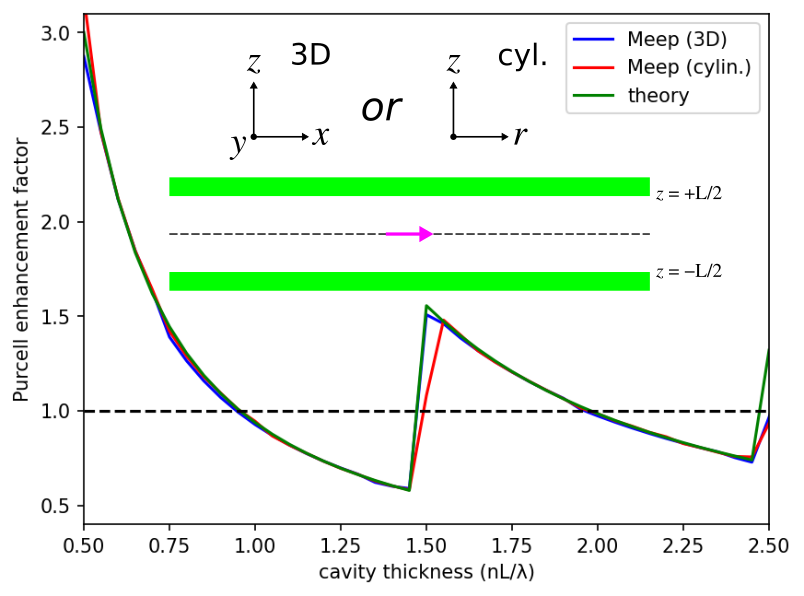
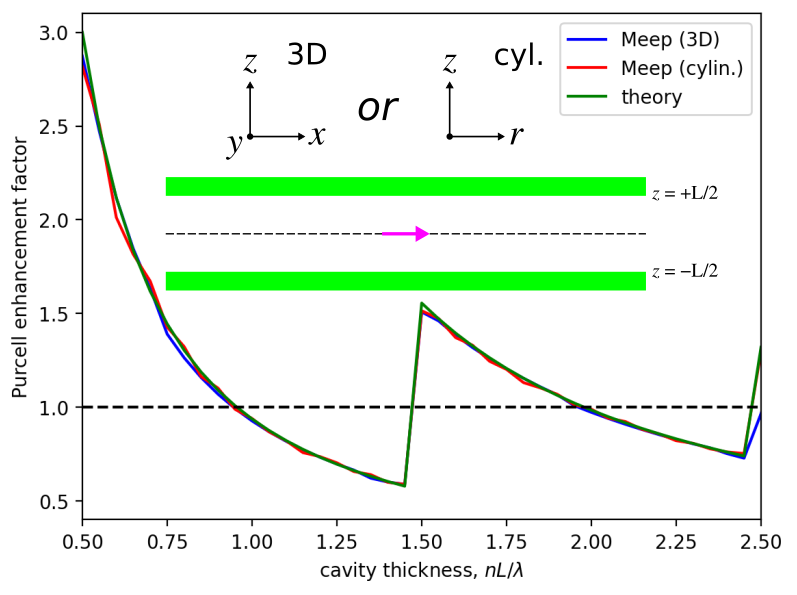
mention impact of grid resolution at Van Hove singularities and update figure

diff --git a/python/examples/planar_cavity_ldos.py b/python/examples/planar_cavity_ldos.py
@@ -1,8 +1,8 @@
-# Computes the Purcell enhancement factor of a parallel dipole in a 3D
-# homogeneous dielectric cavity with lossless metallic walls on two sides.
-# The result is computed in cylindrical and 3D coordinates and compared
-# with the analytic theory from:
+# Computes the Purcell enhancement factor of a parallel dipole in a planar
+# dielectric cavity with lossless metallic walls. The result is computed in
+# cylindrical and 3D coordinates and compared with the analytic theory from:
 # I. Abram et al., IEEE J. Quantum Electronics, Vol. 34, pp. 71-76 (1998).
+
 
 import meep as mp
 import numpy as np
@@ -11,7 +11,7 @@ matplotlib.use('agg')
 import matplotlib.pyplot as plt
 
 
-resolution = 50  # pixels/μm
+resolution = 70  # pixels/μm
 dpml = 0.5       # thickness of PML
 L = 6.0          # length of non-PML region
 n = 2.4          # refractive index of surrounding medium
@@ -29,11 +29,7 @@ def bulk_ldos_cyl():
 
     sources = [mp.Source(src=mp.GaussianSource(fcen,fwidth=0.2*fcen),
                          component=mp.Er,
-                         center=mp.Vector3()),
-               mp.Source(src=mp.GaussianSource(fcen,fwidth=0.2*fcen),
-                         component=mp.Er,
-                         center=mp.Vector3(),
-                         amplitude=-1j)]
+                         center=mp.Vector3())]
 
     sim = mp.Simulation(resolution=resolution,
                         cell_size=cell_size,
@@ -60,11 +56,7 @@ def cavity_ldos_cyl(sz):
 
     sources = [mp.Source(src=mp.GaussianSource(fcen,fwidth=0.2*fcen),
                          component=mp.Er,
-                         center=mp.Vector3()),
-               mp.Source(src=mp.GaussianSource(fcen,fwidth=0.2*fcen),
-                         component=mp.Er,
-                         center=mp.Vector3(),
-                         amplitude=-1j)]
+                         center=mp.Vector3())]
 
     sim = mp.Simulation(resolution=resolution,
                         cell_size=cell_size,
@@ -178,10 +170,10 @@ if __name__ == '__main__':
         plt.plot(cavity_thickness,pe_meep_cyl,'r-',label='Meep (cylin.)')
         plt.plot(cavity_thickness,pe_theory,'g-',label='theory')
         plt.plot(cavity_thickness,np.ones(len(cavity_thickness)),'k--')
-        plt.xlabel('cavity thickness')
-        plt.ylabel('Purcell enhancement factor (relative to bulk)')
-        plt.title("horizontal point dipole at λ=1.0 μm in a cavity with"
-                  "\n n=2.4 and lossless metallic walls on two sides")
+        plt.xlabel('cavity thickness, $nL/\lambda$')
+        plt.ylabel('Purcell enhancement factor')
+        plt.title("planar point dipole at λ=1.0 μm in a planar cavity\n"
+                  "with n=2.4 and lossless metallic walls")
         plt.axis([0.5,2.5,0.4,3.1])
         plt.legend()
         plt.savefig('cavity_purcell_factor_vs_thickness.png',

diff --git a/python/tests/test_ldos.py b/python/tests/test_ldos.py
@@ -2,11 +2,11 @@ import unittest
 import numpy as np
 import meep as mp
 
-# Computes the Purcell enhancement factor of a parallel dipole in a 3D
-# homogeneous dielectric cavity with lossless metallic walls on two sides.
-# The result is computed in cylindrical and 3D coordinates and validated
-# using analytic theory from:
+# Computes the Purcell enhancement factor of a parallel dipole in a planar
+# dielectric cavity with lossless metallic walls. The result is computed in
+# cylindrical and 3D coordinates and validated using analytic theory from:
 # I. Abram et al., IEEE J. Quantum Electronics, Vol. 34, pp. 71-76 (1998).
+
 
 class TestLDOS(unittest.TestCase):
 
@@ -30,11 +30,7 @@ class TestLDOS(unittest.TestCase):
 
         sources = [mp.Source(src=mp.GaussianSource(self.fcen,fwidth=0.2*self.fcen),
                              component=mp.Er,
-                             center=mp.Vector3()),
-                   mp.Source(src=mp.GaussianSource(self.fcen,fwidth=0.2*self.fcen),
-                             component=mp.Er,
-                             center=mp.Vector3(),
-                             amplitude=-1j)]
+                             center=mp.Vector3())]
 
         sim = mp.Simulation(resolution=self.resolution,
                             cell_size=cell_size,
@@ -61,11 +57,7 @@ class TestLDOS(unittest.TestCase):
 
         sources = [mp.Source(src=mp.GaussianSource(self.fcen,fwidth=0.2*self.fcen),
                              component=mp.Er,
-                             center=mp.Vector3()),
-                   mp.Source(src=mp.GaussianSource(self.fcen,fwidth=0.2*self.fcen),
-                             component=mp.Er,
-                             center=mp.Vector3(),
-                             amplitude=-1j)]
+                             center=mp.Vector3())]
 
         sim = mp.Simulation(resolution=self.resolution,
                             cell_size=cell_size,
@@ -155,6 +147,7 @@ class TestLDOS(unittest.TestCase):
     def test_ldos_cyl(self):
         ldos_bulk = self.bulk_ldos_cyl()
 
+        # not a Van Hove singularity
         cavity_thickness = 1.63
         gap = cavity_thickness*self.wvl/self.n
 
@@ -176,6 +169,7 @@ class TestLDOS(unittest.TestCase):
     def test_ldos_3D(self):
         ldos_bulk = self.bulk_ldos_3D()
 
+        # not a Van Hove singularity
         cavity_thickness = 0.75
         gap = cavity_thickness*self.wvl/self.n
 

diff --git a/doc/docs/Python_Tutorials/Local_Density_of_States.md b/doc/docs/Python_Tutorials/Local_Density_of_States.md
@@ -14,15 +14,19 @@ where the $|\hat{p}(\omega)|^2$ normalization is necessary for obtaining the pow
 Planar Cavity with Lossless Metallic Walls
 ------------------------------------------
 
-The spontaneous-emission rate of a point-dipole emitter in a planar cavity bounded by a lossless metallic mirror can be tuned using the thickness of the cavity. A schematic of the cavity is shown in the figure inset below. In this example, the 3D cavity consists of two mirrors separated in the $z$ direction by a distance $L$. The cavity consists of a homogeneous dielectric with $n$=2.4. The dipole wavelength ($\lambda$) is 1.0 μm with polarization *parallel* to the mirrors. The Purcell enhancement factor, a dimensionless quantity defined relative to the bulk medium, can be computed analytically in terms of the cavity thickness in units of the medium wavelength ($nL/\lambda$) for this system using equation (7) of [IEEE J. Quantum Electronics, Vol. 34, pp. 71-76 (1998)](https://ieeexplore.ieee.org/abstract/document/655009). We will validate the simulated results using the analytic theory. Since this system has cylindrical symmetry, we can perform an identical simulation in [cylindrical coordinates](Cylindrical_Coordinates.md) which is much faster because it is a 2D calculation.
+The spontaneous-emission rate of a point-dipole emitter in a planar cavity bounded by a lossless metallic mirror can be tuned using the thickness of the cavity. A schematic of the cavity is shown in the figure inset below. In this example, the planar cavity consists of two mirrors separated in the $z$ direction by a distance $L$. The cavity consists of a homogeneous dielectric with $n$=2.4. The dipole wavelength ($\lambda$) is 1.0 μm with polarization *parallel* to the mirrors. The Purcell enhancement factor, a dimensionless quantity defined relative to the bulk medium, can be computed analytically as a function of the cavity thickness expressed in units of the wavelength in the cavity medium ($nL/\lambda$) using equation 7 of [IEEE J. Quantum Electronics, Vol. 34, pp. 71-76 (1998)](https://ieeexplore.ieee.org/abstract/document/655009). We will validate the simulated results using the analytic theory. Since this system has cylindrical symmetry, we can perform an identical simulation in [cylindrical coordinates](Cylindrical_Coordinates.md) which is significantly faster because it is a 2D calculation.
 
 In this demonstration, the cavity thickness is swept over a range of 0.5 to 2.5. Below a thickness of 0.5 there are no guided modes and thus the Purcell enhancement factor is zero.
 
-Two types of simulations are necessary for computing the Purcell enhancement factor: (1) bulk medium and (2) cavity. The `dft_ldos` featured is used to compute the LDOS in each case at a single wavelength. The Purcell enhancement factor is computed as the ratio of the LDOS measured in (2) to that from (1).
+Two types of simulations are necessary for computing the Purcell enhancement factor: (1) bulk medium and (2) cavity. The `dft_ldos` featured is used to compute the LDOS in each case. The Purcell enhancement factor is computed as the ratio of the LDOS measured in (2) to that from (1).
 
-In 3D, each simulation uses three mirror symmetries to reduce the size of the computation by a factor of eight. The dipole is polarized in the $x$ direction. The cavity is infinitely extended in the $xy$ plane and thus the cell is terminated using PMLs in these two directions. Because Meep uses a default boundary condition of a perfect electric conductor, there is no need to explicitly define the boundaries in the $z$ direction. In cylindrical coordinates, the dipole is polarized in the $r$ direction. A linearly polarized source in cylindrical coordiantes is described in [Tutorial/Cylindrical Coordinates/Scattering Cross Section of a Finite Dielectric Cylinder](Cylindrical_Coordinates.md#scattering-cross-section-of-a-finite-dielectric-cylinder). The fields are timestepped until they have decayed away sufficiently due to absorption by the PMLs at the location of the pulsed source.
+In 3D, each simulation uses three [mirror symmetries](../Exploiting_Symmetry.md#rotations-and-reflections) to reduce the size of the computation by a factor of eight. The dipole is polarized in the $x$ direction. The cavity is infinitely extended in the $xy$ plane and the cell is therefore terminated using PMLs in $x$ and $y$. Because Meep uses a default boundary condition of a perfect-electric conductor, there is no need to explicitly define the boundaries in the $z$ direction. The fields are timestepped until they have decayed away sufficiently due to absorption by the PMLs.
 
-As shown in the plot below, the results from Meep for both coordinate systems agree well with the analytic theory.
+In cylindrical coordinates, the dipole is polarized in the $r$ direction. Setting up a linearly polarized source in cylindrical coordiantes is demonstrated in [Tutorial/Cylindrical Coordinates/Scattering Cross Section of a Finite Dielectric Cylinder](Cylindrical_Coordinates.md#scattering-cross-section-of-a-finite-dielectric-cylinder). However, all that is necessary in this example is a *single* simulation involving an $E_r$ source at $r=0$ with $m=-1$. This is actually a circularly polarized source but this is sufficient because the $m=+1$ simulation produces an identical result to the $m=-1$ simulation. It is therefore not necessary to perform two separate simulations for $m=\pm 1$ in order to average the results from the left- and right-circularly polarized sources.
+
+One important parameter when setting up this calculation is the grid resolution. There are [Van Hove singularities](https://en.wikipedia.org/wiki/Van_Hove_singularity) for cavity-thickness values of 0.5, 1.5, 2.5, ... Any discretization errors in the cavity thickness (which is equivalent to the cell size in the *z* direction) can have a large impact on the results at these singularities.
+
+As shown in the plot below, the results from Meep for both coordinate systems agree well with the analytic theory over the entire range of values of the cavity thickness.
 
 <center>
 ![](../images/planar_cavity_purcell_enhancement.png)
@@ -38,7 +42,7 @@ matplotlib.use('agg')
 import matplotlib.pyplot as plt
 
 
-resolution = 50  # pixels/μm
+resolution = 70  # pixels/μm
 dpml = 0.5       # thickness of PML
 L = 6.0          # length of non-PML region
 n = 2.4          # refractive index of surrounding medium
@@ -56,11 +60,7 @@ def bulk_ldos_cyl():
 
     sources = [mp.Source(src=mp.GaussianSource(fcen,fwidth=0.2*fcen),
                          component=mp.Er,
-                         center=mp.Vector3()),
-               mp.Source(src=mp.GaussianSource(fcen,fwidth=0.2*fcen),
-                         component=mp.Er,
-                         center=mp.Vector3(),
-                         amplitude=-1j)]
+                         center=mp.Vector3())]
 
     sim = mp.Simulation(resolution=resolution,
                         cell_size=cell_size,
@@ -87,11 +87,7 @@ def cavity_ldos_cyl(sz):
 
     sources = [mp.Source(src=mp.GaussianSource(fcen,fwidth=0.2*fcen),
                          component=mp.Er,
-                         center=mp.Vector3()),
-               mp.Source(src=mp.GaussianSource(fcen,fwidth=0.2*fcen),
-                         component=mp.Er,
-                         center=mp.Vector3(),
-                         amplitude=-1j)]
+                         center=mp.Vector3())]
 
     sim = mp.Simulation(resolution=resolution,
                         cell_size=cell_size,
@@ -175,7 +171,7 @@ if __name__ == '__main__':
     ldos_bulk_cyl = bulk_ldos_cyl()
     ldos_bulk_3D = bulk_ldos_3D()
 
-    # units of wavelength in medium
+    # units of wavelength in cavity medium
     cavity_thickness = np.arange(0.50,2.55,0.05)
 
     gap = cavity_thickness*wvl/n
@@ -205,10 +201,10 @@ if __name__ == '__main__':
         plt.plot(cavity_thickness,pe_meep_cyl,'r-',label='Meep (cylin.)')
         plt.plot(cavity_thickness,pe_theory,'g-',label='theory')
         plt.plot(cavity_thickness,np.ones(len(cavity_thickness)),'k--')
-        plt.xlabel('cavity thickness')
-        plt.ylabel('Purcell enhancement factor (relative to bulk)')
-        plt.title("horizontal point dipole at λ=1.0 μm in a cavity with"
-                  "\n n=2.4 and lossless metallic walls on two sides")
+        plt.xlabel('cavity thickness, $nL/\lambda$')
+        plt.ylabel('Purcell enhancement factor')
+        plt.title("parallel point dipole at λ=1.0 μm in a planar cavity\n"
+                  "with n=2.4 and lossless metallic walls")
         plt.axis([0.5,2.5,0.4,3.1])
         plt.legend()
         plt.savefig('cavity_purcell_factor_vs_thickness.png',
